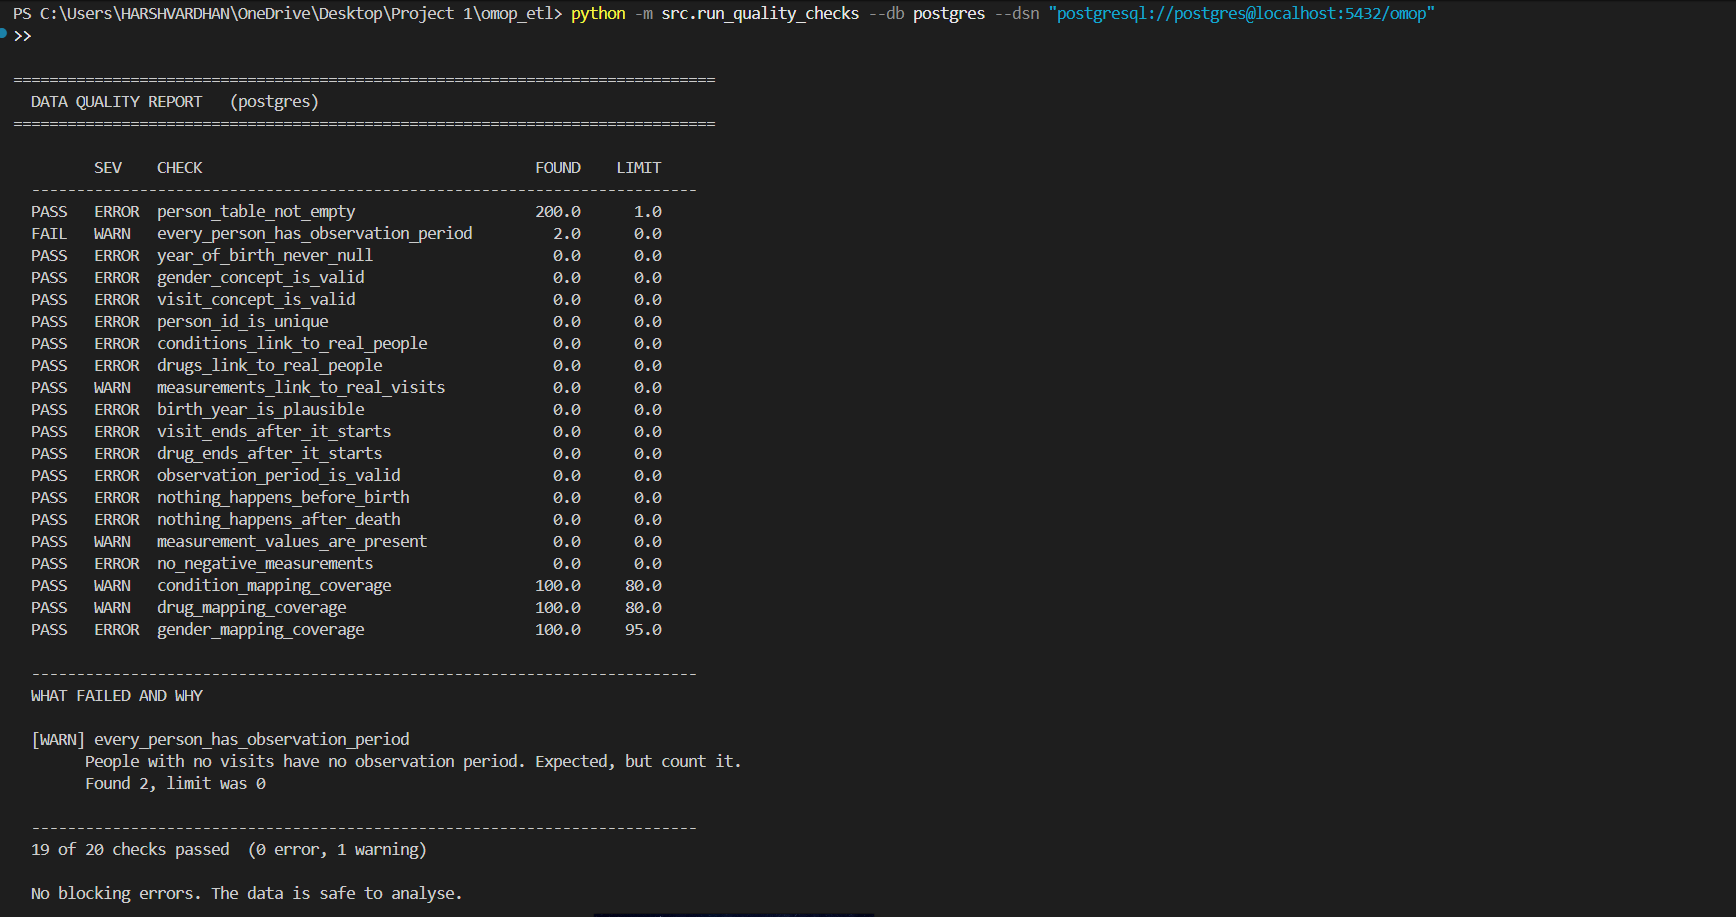
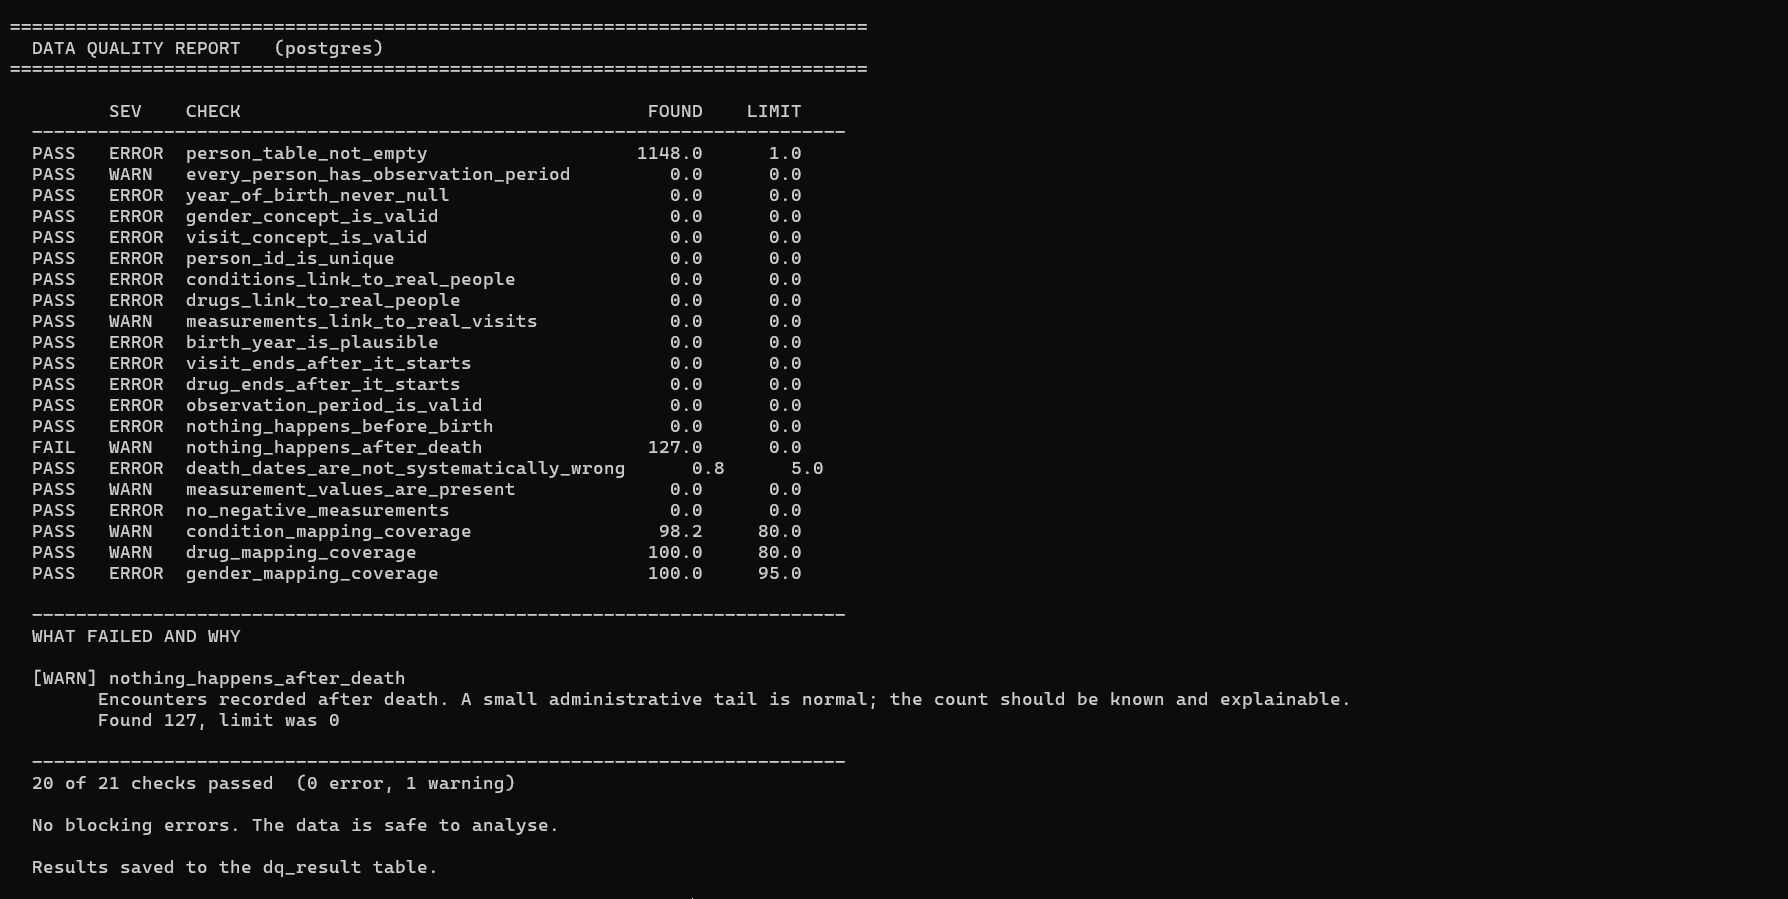
Map 24 UCUM units; align docs with 1000-patient Synthea run
- Unit coverage 64.4% -> 77.3%; unmapped codes 80 -> 56
- K/uL mapped to thousand-per-microliter, not the Kelvin concept UCUM
  string-matches to
- {score}/{count}/{presence} left at 0 by design; ~83% is the real ceiling
- Verified results section now reflects the real Synthea run
- Check counts updated 20 -> 21 across all docs

diff --git a/src/vocabulary.py b/src/vocabulary.py
@@ -95,6 +95,16 @@ VISIT = {
 }
 
 # UCUM unit strings -> OMOP unit concepts
+#
+# Units in {curly braces} are UCUM annotations marking a dimensionless
+# quantity -- {score}, {count}, {presence}, {nominal}. These have no unit
+# concept because they have no unit: a depression score of 14 is not 14 of
+# anything. They correctly stay at concept_id 0. Roughly 90,000 measurements
+# in real Synthea fall into this category, which is why unit coverage has a
+# realistic ceiling around 83% rather than 100%.
+#
+# A handful of genuine units (U/L, kU/L, m[IU]/L, ng/dl) are absent from this
+# Athena download and remain open.
 UNIT = {
     "cm":     8582,
     "kg":     9529,
@@ -129,6 +139,12 @@ UNIT = {
     "/[HPF]":       8786,   # per high power field
     "[iU]/L":       8923,   # international unit per liter
     "{copies}/mL":  8799,   # copies per milliliter
+    # "K/uL" means thousands per microliter -- a cell count. UCUM
+    # string-matches it to 8792 "Kelvin per microliter", which is the wrong
+    # unit and the wrong dimension entirely. Mapped deliberately to match
+    # 10*3/uL. A blood count recorded in units of temperature would still
+    # query cleanly and still be wrong.
+    "K/uL":         8848,   # thousand per microliter
 }
 
 # "Type" concepts describe WHERE a record came from, not what it says.

diff --git a/README.md b/README.md
@@ -142,10 +142,10 @@ And the quality report:
   PASS   ERROR  nothing_happens_before_birth                0.0      0.0
   PASS   ERROR  nothing_happens_after_death                 0.0      0.0
   ...
-  17 of 20 checks passed  (0 error, 3 warning)
+  18 of 21 checks passed  (0 error, 3 warning)
 ```
 
-The two extra warnings are the clinical mapping-coverage checks, which sit at
+Two of those warnings are the clinical mapping-coverage checks, which sit at
 0% until you load the vocabulary. The next section shows what happens when
 you do.
 
@@ -153,77 +153,76 @@ you do.
 
 ## Verified results
 
-The pipeline has been run end to end against **PostgreSQL 17** with the full
-**OHDSI Athena** vocabulary loaded (1,686,068 concepts and 1,101,395
-`Maps to` relationships covering SNOMED CT, RxNorm and LOINC).
+The pipeline has been run end to end over **1,000 real Synthea patients**
+against **PostgreSQL 17**, with the full **OHDSI Athena** vocabulary loaded —
+1,686,068 concepts and 1,101,395 `Maps to` relationships covering SNOMED CT,
+RxNorm and LOINC.
 
 The database password is supplied through the `PGPASSWORD` environment
 variable, never on the command line.
 
-### Extract and transform
-
-![Extract and transform](docs/images/etl-run-1.png)
+![Full pipeline run](docs/images/etl-run.png)
 
 ### Load
 
 ```
   Table                          Rows
   ------------------------ ----------
-  person                          200
-  observation_period              198
-  visit_occurrence              1,277
-  condition_occurrence          1,260
-  drug_exposure                 1,289
-  measurement                   3,138
-  death                             3
+  person                        1,148
+  observation_period            1,148
+  visit_occurrence             67,837
+  condition_occurrence         41,551
+  drug_exposure                55,860
+  measurement                 534,632
+  death                           148
 
-  Read 7,164 source rows -> wrote 7,365 OMOP rows in 51.7s
+  Read 1,014,092 source rows -> wrote 702,324 OMOP rows in 280.4s
 ```
 
-![Pipeline load and report](docs/images/etl-run-2.png)
+Runtime swings between roughly 280s and 530s across runs on the same machine.
+The difference is the operating system's file cache: the 1.2 GB vocabulary is
+read from disk on a cold run and from memory on a warm one. Loading the
+vocabulary into memory on every run is the single biggest cost, and is listed
+as a known limitation.
 
-Almost all of that time is reading the vocabulary files (50-70s depending on
-disk cache). The transform itself is still sub-second.
+`person` and `observation_period` match exactly here. Every Synthea patient
+has at least one encounter, so every patient gets an observation window — on
+the smaller sample dataset two patients had no visits and correctly got none.
 
 ### Vocabulary coverage
 
 ```
-    LOINC         100.0%  ####################
+    LOINC          93.8%  ##################
     RxNorm        100.0%  ####################
-    SNOMED        100.0%  ####################
+    SNOMED         98.2%  ###################
     ethnicity     100.0%  ####################
-    gender        100.0%  ####################
-    race           80.5%  ################
-    unit          100.0%  ####################
+    gender        100.0%  ###################
+    race           97.6%  ###################
+    unit           77.3%  ###############
     visit         100.0%  ####################
 ```
 
-Exactly one distinct code failed to map: `race = other`, which has no OMOP
-equivalent. Zero rows were rejected.
-
-> **Read that 100% honestly.** The built-in generator uses a small, curated
-> set of real SNOMED, RxNorm and LOINC codes, so of course they all resolve.
-> Real Synthea output uses thousands of codes and coverage will land nearer
-> 85-95%. The drop is not a regression — it is the pipeline meeting reality.
+56 distinct codes could not be mapped and 313,064 rows were rejected. Neither
+is data loss, and both are explained in **What real data revealed** below.
 
 ### Data quality
 
 ```
-  19 of 20 checks passed  (0 error, 1 warning)
+  20 of 21 checks passed  (0 error, 1 warning)
 
-  [WARN] every_person_has_observation_period
-        People with no visits have no observation period.
-        Found 2, limit was 0
+  [WARN] nothing_happens_after_death
+        Encounters recorded after death. A small administrative tail is
+        normal; the count should be known and explainable.
+        Found 127, limit was 0
 
   No blocking errors. The data is safe to analyse.
 ```
 
 ![Data quality report](docs/images/quality-report.png)
 
-**Zero errors is the number that matters.** The single warning is correct
-behaviour, not a defect: two patients never attended a visit, so there is no
-window during which they were observed. Inventing one would make them look
-like patients who had been checked and found healthy.
+**Zero errors across 1,014,092 source rows is the number that matters.** The
+single warning is a documented source artifact rather than a load defect —
+see Finding 2 below.
 
 Results are written to `dq_result` with a run id, so quality is tracked across
 runs rather than glanced at once.
@@ -241,9 +240,9 @@ vocabulary" notice. That is by design: the logic is tested in isolation.
 
 ## What real data revealed
 
-The figures above are from the built-in sample generator: 200 patients and 23
-hand-picked codes. The pipeline was then run against **1,000 real Synthea
-patients** — a very different proposition.
+The figures above are from real Synthea data. Getting there from the built-in
+sample generator — 200 patients, 23 hand-picked codes — is where the actual
+work was.
 
 | | Sample data | Real Synthea |
 |---|---|---|
@@ -253,9 +252,9 @@ patients** — a very different proposition.
 | SNOMED coverage | 100% | 98.2% |
 | RxNorm coverage | 100% | 100% |
 | LOINC coverage | 100% | 93.8% |
-| Unit coverage | 100% | 64.4% |
+| Unit coverage | 100% | 77.3% |
 | Rejected rows | 0 | 313,064 |
-| Quality checks | 19 of 20, 0 errors | 20 of 21, 0 errors |
+| Quality checks | 20 of 21, 0 errors | 20 of 21, 0 errors |
 
 Coverage fell and rejects appeared. That is the pipeline meeting reality, and
 the three findings below are the actual work.
@@ -307,6 +306,30 @@ Three Synthea encounter classes had no mapping and were landing on
 OMOP has **no standard Visit concept for hospice** — every hospice entry in
 the vocabulary is non-standard, from UB04 claims — so non-hospital institution
 is the accepted fallback. Visit coverage went from 98.9% to 100%.
+
+### Finding 4 — the units, and one that would have been quietly wrong
+
+Real Synthea uses 50 distinct units where the sample data used 9. Mapping 24
+of them lifted unit coverage from **64.4% to 77.3%**.
+
+One deserves singling out. `K/uL` string-matches in UCUM to concept **8792,
+"Kelvin per microliter"** — but in lab data `K/uL` means *thousands per
+microliter*, a white blood cell count. `K` is the SI prefix for kilo, not the
+symbol for Kelvin. Accepting the match would have recorded cell counts in
+units of temperature: the query still runs, the number still looks reasonable,
+and the data is silently wrong. It is mapped deliberately to 8848, the same
+concept as `10*3/uL`.
+
+The remaining 22.7% is mostly **not fixable, and should not be**. 89,870
+measurements (16.8%) use UCUM annotations — `{score}`, `{count}`,
+`{presence}`, `{nominal}`. An annotation marks a quantity as *dimensionless*:
+a depression score of 14 is not 14 of anything. There is no unit concept
+because there is no unit, so `concept_id = 0` is the correct answer.
+
+That puts the realistic ceiling at about **83%**, not 100%. Among measurements
+that actually carry a real unit, coverage is **92.9%**. A handful of genuine
+units (`U/L`, `kU/L`, `m[IU]/L`) are simply absent from this Athena download
+and remain open.
 
 ### The rejects are a scope limit, not data loss
 

diff --git a/docs/03_ETL_SPEC.md b/docs/03_ETL_SPEC.md
@@ -399,7 +399,7 @@ Expected on the 200-patient sample data, without Athena:
 - 7,164 source rows read
 - 7,365 OMOP rows written
 - 0 rejects
-- 17 of 20 quality checks pass (0 errors, 3 warnings)
+- 18 of 21 quality checks pass (0 errors, 3 warnings)
 
 The three warnings are: two patients with no visits, and clinical mapping
 coverage at 0% because Athena is not loaded. Both are expected and explained.
@@ -423,7 +423,7 @@ Vocabulary loaded: 1,686,068 concepts, 1,101,395 `Maps to` relationships
 | Distinct unmapped codes | 1 (`race = other`) |
 | SNOMED / RxNorm / LOINC coverage | 100% |
 | Race coverage | 80.5% |
-| Quality checks | 19 of 20 pass (0 errors, 1 warning) |
+| Quality checks | 20 of 21 pass (0 errors, 1 warning) |
 | Runtime | 72.8s, of which ~70s is vocabulary loading |
 
 The single warning is `every_person_has_observation_period` — the same two
@@ -440,18 +440,31 @@ sample generator. Real Synthea output uses a far wider code set.
 | Source rows read | 1,014,092 |
 | OMOP rows written | 702,324 |
 | Rejected rows | 313,064 (all non-numeric observations, A4) |
-| Distinct unmapped codes | 80 |
+| Distinct unmapped codes | 56 (was 80 before the UCUM units were added) |
 | SNOMED / RxNorm / LOINC coverage | 98.2% / 100% / 93.8% |
 | Visit coverage | 100% (after adding `home`, `snf`, `hospice`) |
-| Unit coverage | 64.4% |
+| Unit coverage | 77.3% |
 | Quality checks | 20 of 21 pass (0 errors, 1 warning) |
-| Runtime | 504.6s |
+| Runtime | 280s warm cache to 530s cold; vocabulary load dominates |
 
 The single warning is `nothing_happens_after_death`: 127 encounters, one each
 for 127 of the 148 deceased patients, 1-14 days after the recorded death date.
 This is an administrative tail, not a load defect, and the records are kept
 (assumption A8).
 
-**Unit coverage of 64.4% is the largest remaining gap.** Real Synthea uses
-many UCUM units absent from the built-in table in `src/vocabulary.py`. The
-codes are listed in `data/unmapped_codes.csv`, ranked by frequency.
+**Unit coverage improved from 64.4% to 77.3%** by mapping 24 UCUM units.
+
+The remaining 22.7% is largely not mappable by design. 89,870 measurements
+(16.8%) carry UCUM *annotations* — `{score}`, `{count}`, `{presence}`,
+`{nominal}` — which mark a quantity as dimensionless. These have no unit
+concept because they have no unit, so they correctly remain at concept_id 0.
+Among measurements that carry a real unit, coverage is 92.9%; the realistic
+ceiling for the overall figure is about 83%.
+
+`K/uL` is mapped deliberately rather than by string match: UCUM resolves it to
+8792 "Kelvin per microliter", but in lab data it means thousands per
+microliter. It is mapped to 8848, matching `10*3/uL`.
+
+A few genuine units (`U/L`, `kU/L`, `m[IU]/L`, `ng/dl`) are absent from this
+Athena download and remain open. All are listed in `data/unmapped_codes.csv`,
+ranked by frequency.

diff --git a/docs/02_WORKFLOW.md b/docs/02_WORKFLOW.md
@@ -289,14 +289,14 @@ Read 7,164 source rows  ->  wrote 7,365 OMOP rows in 0.3s
   measurement         3,138
   death                   3
 
-17 of 20 checks passed  (0 error, 3 warning)
+18 of 21 checks passed  (0 error, 3 warning)
 ```
 
 More rows come out than went in because `observation_period` is created from
 nothing — it is calculated, not copied.
 
 With the Athena vocabulary loaded, the two mapping-coverage warnings clear and
-the same run reports **19 of 20 (0 error, 1 warning)**. The remaining warning
+the same run reports **20 of 21 (0 error, 1 warning)**. The remaining warning
 is the two patients with no visits, which is correct behaviour.
 
 ---

diff --git a/docs/01_SETUP.md b/docs/01_SETUP.md
@@ -199,7 +199,7 @@ Loading takes about 70 seconds and reads 1,686,068 concepts plus 1,101,395
 `Maps to` relationships into memory. Close other applications if you have 8 GB
 of RAM or less.
 
-The quality checks that were failing on mapping coverage now pass — 19 of 20,
+The quality checks that were failing on mapping coverage now pass — 20 of 21,
 0 errors.
 
 > 100% is a property of the sample generator, which uses a small curated set
